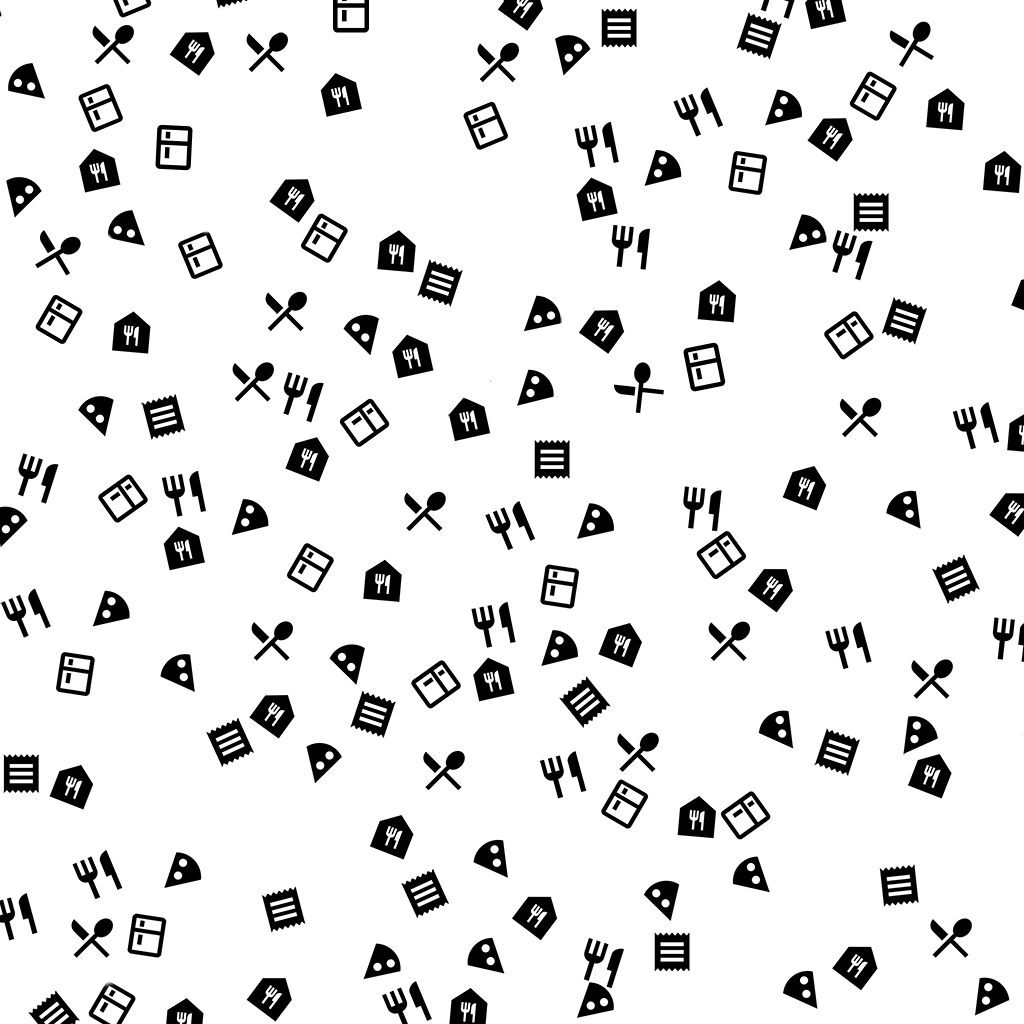
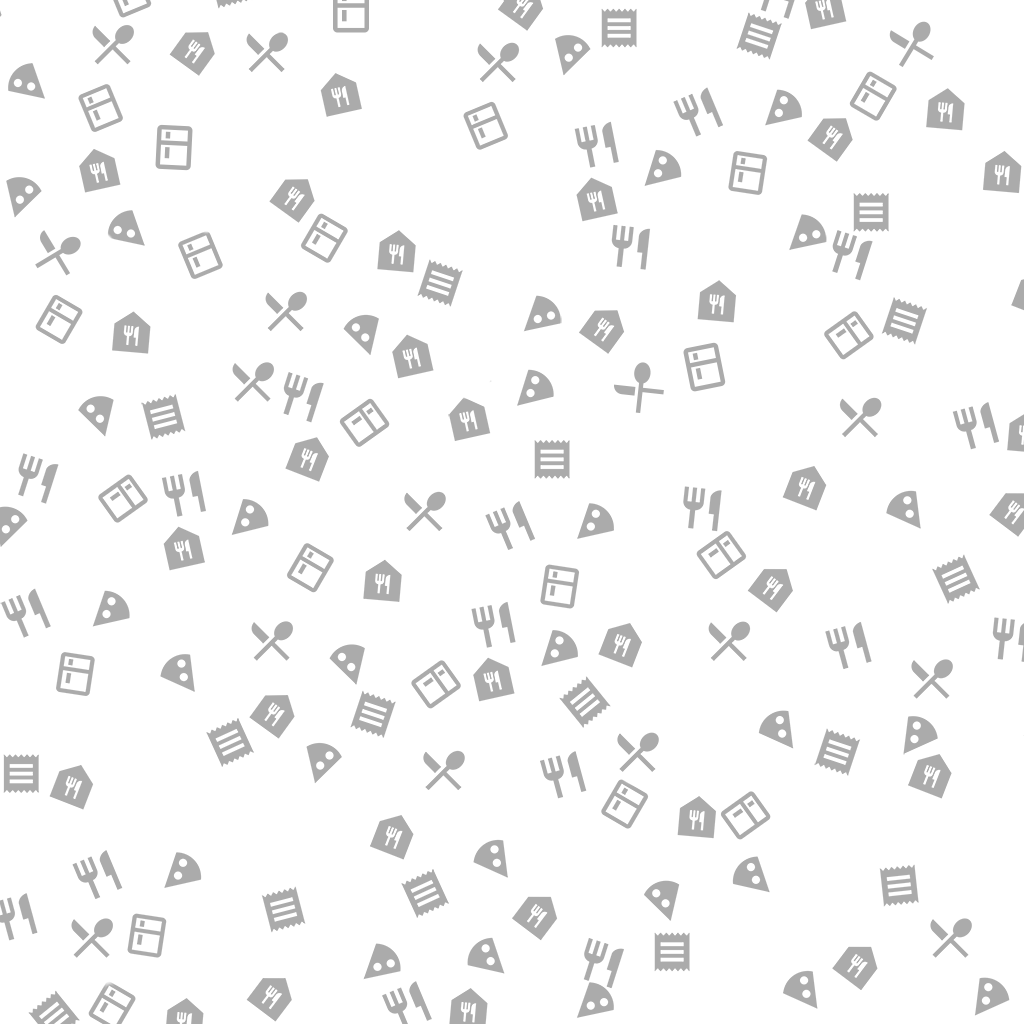
Styles for uploading

diff --git a/css/styles.css b/css/styles.css
@@ -809,15 +809,15 @@ a.box:active {
         color: rgba(0, 0, 0, 0.7); }
     .button.is-primary.is-light {
       background-color: #effbf4;
-      color: #1f7541; }
+      color: #4FB578; }
       .button.is-primary.is-light:hover, .button.is-primary.is-light.is-hovered {
         background-color: #e5f8ec;
         border-color: transparent;
-        color: #1f7541; }
+        color: #4FB578; }
       .button.is-primary.is-light:active, .button.is-primary.is-light.is-active {
         background-color: #dbf5e5;
         border-color: transparent;
-        color: #1f7541; }
+        color: #4FB578; }
   .button.is-link {
     background-color: #485fc7;
     border-color: transparent;
@@ -1631,7 +1631,7 @@ div.icon-text {
     color: rgba(0, 0, 0, 0.7); }
     .notification.is-primary.is-light {
       background-color: #effbf4;
-      color: #1f7541; }
+      color: #4FB578; }
   .notification.is-link {
     background-color: #485fc7;
     color: #fff; }
@@ -1994,7 +1994,7 @@ div.icon-text {
     color: rgba(0, 0, 0, 0.7); }
     .tag:not(body).is-primary.is-light {
       background-color: #effbf4;
-      color: #1f7541; }
+      color: #4FB578; }
   .tag:not(body).is-link {
     background-color: #485fc7;
     color: #fff; }
@@ -3370,7 +3370,7 @@ button.dropdown-item {
       color: rgba(0, 0, 0, 0.7); }
     .message.is-primary .message-body {
       border-color: #5CD48C;
-      color: #1f7541; }
+      color: #4FB578; }
   .message.is-link {
     background-color: #eff1fa; }
     .message.is-link .message-header {
@@ -3457,7 +3457,7 @@ button.dropdown-item {
     display: flex; }
 
 .modal-background {
-  background-color: rgba(10, 10, 10, 0.86); }
+  background-color: rgba(0, 0, 0, 0.4); }
 
 .modal-content,
 .modal-card {
@@ -5951,13 +5951,13 @@ a.has-text-primary-light:hover, a.has-text-primary-light:focus {
   background-color: #effbf4 !important; }
 
 .has-text-primary-dark {
-  color: #1f7541 !important; }
+  color: #4FB578 !important; }
 
 a.has-text-primary-dark:hover, a.has-text-primary-dark:focus {
-  color: #2a9d58 !important; }
+  color: #73c494 !important; }
 
 .has-background-primary-dark {
-  background-color: #1f7541 !important; }
+  background-color: #4FB578 !important; }
 
 .has-text-link {
   color: #485fc7 !important; }
@@ -7850,21 +7850,54 @@ a.has-text-danger-dark:hover, a.has-text-danger-dark:focus {
 .button-circle {
   border-radius: 9999px; }
 
+.is-xlarge {
+  width: 72px;
+  height: 72px;
+  border: solid #394c4f 3px; }
+
 .bg-image {
   position: relative;
+  background-image: url("../src/components/photos/foodicons025.png");
   overflow: hidden; }
-
-.bg-image::before {
-  content: ' ';
-  display: block;
-  z-index: -1;
-  opacity: 0.6;
-  background-image: url(../src/components/photos/foodicons025.png);
-  overflow: hidden;
-  background-size: cover; }
 
 .is-fullscreen {
   height: 100vh;
   width: 100vw;
   max-height: 100vh;
   max-width: 100vw; }
+
+.footer-max {
+  height: 12%;
+  max-height: 12%;
+  overflow: hidden;
+  align-items: center; }
+
+#scanImageContainer {
+  height: 83%;
+  justify-content: center; }
+
+#uploadedImage {
+  height: 100%; }
+
+.varer {
+  padding: 0.5rem; }
+
+#footerButtonCenter2 {
+  display: none; }
+
+.acceptModal {
+  display: flex;
+  justify-content: center;
+  width: 65vw;
+  height: 50vw;
+  text-align: center;
+  align-items: center;
+  border: 3px solid white; }
+
+.acceptModalContent {
+  width: 100%;
+  height: 100%;
+  display: flex;
+  flex-direction: column;
+  align-items: center;
+  justify-content: center; }

diff --git a/src/components/Footer.vue b/src/components/Footer.vue
@@ -1,26 +1,40 @@
 <template>
-  <footer class="footer is-flex is-justify-content-space-evenly mb-0 has-background-primary">
+  <footer class="is-flex is-justify-content-space-evenly mb-0 has-background-primary-dark footer-max">
     <!-- Our footer buttons, that will be used for navigating important pages -->
-    <button id="footerButtonLeft" class="button button-circle is-large my-1">
+    <button id="footerButtonLeft" class="button button-circle is-large">
       <span class="icon"
         ><img src="@/components/photos/user.svg" alt="User Icon"
       /></span>
     </button>
-    <button id="footerButtonCenter" class="button button-circle is-large my-1">
-      <span class="icon"
-        ><img src="@/components/photos/cam.svg" alt="Scan Icon"
-      /></span>
+    <button id="footerButtonCenter" class="button-circle is-xlarge is-outlined has-background-white">
+
+        <img src="@/components/photos/cam.svg" alt="Scan Icon"
+      />
+    </button>
+    <button id="footerButtonCenter2" class="button-circle is-xlarge is-outlined has-background-white" @click="accept()">
+
+        <img src="@/components/photos/checkmark.svg" alt="Scan Icon"
+      />
     </button>
     <button
       id="footerButtonRight"
-      class="button-circle button is-large my-1"
+      class="button-circle button is-large"
       @click="goBack()"
     >
-      <span class="icon"
+      <span class="icon is-large"
         ><img src="@/components/photos/back.svg" alt=""
       /></span>
     </button>
   </footer>
+  <div id="accepted-modal" class="modal" @click="closeModal()">
+  <div class="modal-background"></div>
+  <div class="modal-content acceptModal">
+    <div class="has-background-primary acceptModalContent">
+    <h2 class="has-text-white px-2 has-text-weight-bold is-size-4">Dine varer er blevet tilføjet</h2>
+    <img src="@/components/photos/checkmark.svg" alt="">
+    </div>
+  </div>
+</div>
 </template>
 
 <script>
@@ -34,6 +48,12 @@ export default {
       this.$parent.scanned = false;
       console.log("went back");
     },
+    accept() {
+      document.getElementById("accepted-modal").classList.add("is-active")
+    },
+    closeModal() {
+      document.getElementById("accepted-modal").classList.remove("is-active")
+    }
   },
 };
 </script>

diff --git a/src/components/Upload.vue b/src/components/Upload.vue
@@ -1,9 +1,9 @@
 <template>
 <!-- Simple input that loads 2 function on change -->
-<section style="height: 85%;">
-  <h1 class="has-text-white is-size-3 has-text-centered has-text-weight-bold py-4">Upload eller tag et billede</h1>
-  <form id="uploadForm" class="bg-image is-clipped" style="height: 100%;">
-    <label id="labelUpload" class="is-flex is-justify-content-center is-fullheight" for="fileToUpload">
+<section style="height: 88%;">
+  <h1 class="has-text-white is-size-3 has-text-centered has-text-weight-bold pt-3" style="height: 17%;">Upload eller tag et billede</h1>
+  <form id="uploadForm" class="bg-image is-clipped" style="height: 83%;">
+    <label id="labelUpload" class="is-flex is-justify-content-center" for="fileToUpload" style="height: 100%; Align-items: center;">
         <img class="image button is-rounded is-outlined is-96x96 " src="@/components/photos/upload.svg" alt="" />
     </label>
     <input
@@ -14,9 +14,9 @@
       style="visibility: hidden"
     />
   </form>
-  <div class="imageContainer"  style="height: 0;">
-    <img v-if="dataImage !== 0" id="loading" src="@/components/photos/Loading.svg" alt="">
-    <img id="uploadedImage" src="" />
+  <div id="scanImageContainer" style="display:none">
+    <img v-if="dataImage !== 0" id="loading" src="@/components/photos/Loading.svg" alt="" style="width: 50%; position: absolute" class="image">
+    <img id="uploadedImage" src=""/>
   </div>
   </section>
 </template>
@@ -39,6 +39,9 @@ export default {
         this.dataImage = document.getElementById("uploadedImage").src;
         console.log(this.dataImage);
         document.getElementById("uploadForm").style.display = "none"
+        document.getElementById("scanImageContainer").style.display = "flex"
+        document.getElementById("footerButtonCenter").style.display = "none"
+        document.getElementById("footerButtonCenter2").style.display = "block"
       }
     },
     // Launches the readData function in Home.vue 

diff --git a/sass/styles.scss b/sass/styles.scss
@@ -3,9 +3,11 @@
 @import url('https://fonts.googleapis.com/css2?family=Comfortaa:wght@300;400;500;600;700&display=swap');
 
 $primary: #5CD48C;
+$primary-dark: #4FB578;
 $button-border-width: 3px;
 $button-border-color: #394c4f;
 $family-primary: "Comfortaa", Arial;
+$modal-background-background-color: rgba(0, 0, 0, 0.4); ;
 
 $is-rounded: "padding: 0";
 
@@ -17,24 +19,64 @@ $footer-padding: 2rem 1.5rem 2rem;
     border-radius: 9999px;
 }
 
+.is-xlarge {
+    width: 72px;
+    height: 72px;
+    border: solid #394c4f 3px;
+}
+
 .bg-image {
     position: relative;
+    background-image: url("../src/components/photos/foodicons025.png");
     overflow: hidden;
 }
 
-.bg-image::before {
-    content: ' ';
-    display: block;
-    z-index: -1;
-    opacity: 0.6;
-    background-image: url(../src/components/photos/foodicons025.png);
-    overflow: hidden;
-    background-size: cover;
-}
 
 .is-fullscreen {
     height: 100vh;
     width: 100vw;
     max-height: 100vh;
     max-width: 100vw;
+}
+
+.footer-max {
+    height: 12%;
+    max-height: 12%;
+    overflow: hidden;
+    align-items: center;
+}
+#scanImageContainer {
+    height: 83%;
+    justify-content: center;
+}
+
+#uploadedImage {
+height: 100%;
+}
+
+.varer {
+    padding: 0.5rem;
+}
+
+#footerButtonCenter2 {
+    display: none;
+}
+
+.acceptModal {
+    display: flex;
+    justify-content: center;
+    width: 65vw;
+    height: 50vw;
+    text-align: center;
+    align-items: center;
+    border: 3px solid white;
+}
+
+.acceptModalContent {
+    width:100%; 
+    height:100%; 
+    display: flex; 
+    flex-direction: column; 
+    align-items: center; 
+    justify-content: center;
 }

diff --git a/src/components/AfterScan.vue b/src/components/AfterScan.vue
@@ -1,7 +1,10 @@
 <template>
-  <h1>Dine Scannet varer</h1>
-  <section class="overFooter">
+<section class="overFooter" style="height: 88%;">
+  <h1 class="has-text-white is-size-3 has-text-centered has-text-weight-bold pt-3" style="height: 10%;">Dine Scannet varer</h1>
+  <div style="height: 90%; overflow: scroll;" >
     <ul id="dataList"></ul>
+  </div>
+    
   </section>
 </template>
 
@@ -17,7 +20,7 @@ export default {
     console.log(scannedArray);
     let ul = document.getElementById("dataList");
     scannedArray.forEach(function (i) {
-      ul.innerHTML += "<li>" + i + "</li>";
+      ul.innerHTML += "<li class='varer p-1 pl-4 has-text-white'>" + i + "</li>";
     });
   },
 };

diff --git a/src/views/Home.vue b/src/views/Home.vue
@@ -57,11 +57,12 @@ export default {
         const filterSymbols = /[!@#$%^&*()_+\-=\[\]{};':"\\|,.<>\/?]+/;
         for (let i = 0; i < itemsArray.length; i++) {
           if (filterSymbols.test(itemsArray[i])) {
-            console.log("Symbol found " + i);
+            console.log("Symbol found " + i + itemsArray[i]);
 
             // I have to make a solution that checks for numbers or words and cuts out those certain bits
           } else if ((i = itemsArray.length)) {
             this.scanned = true;
+            print("hello world")
           }
         }
       });
